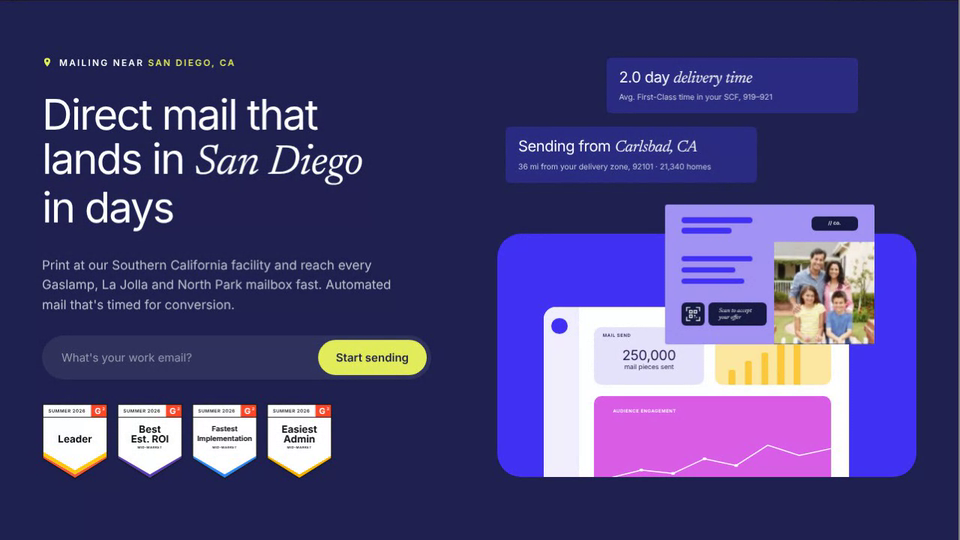
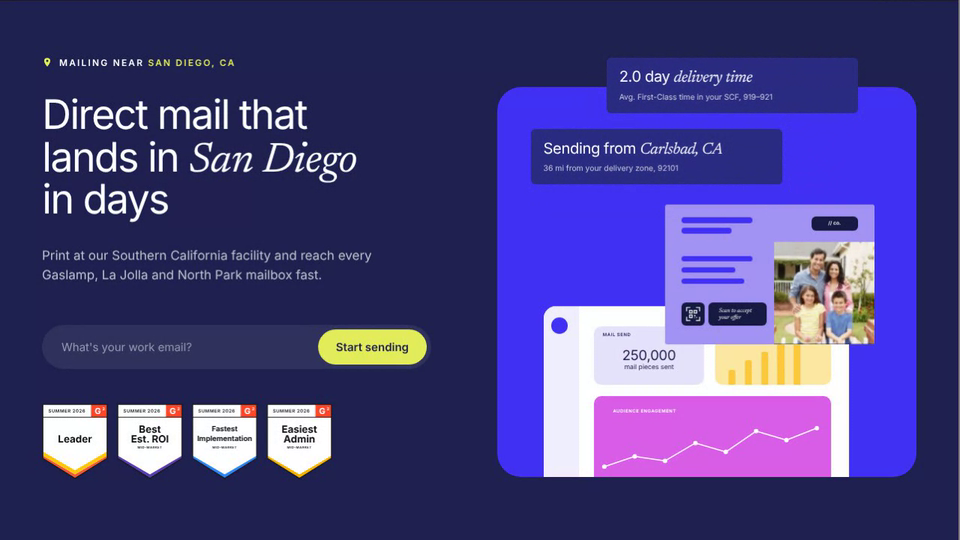
Location Hero: looping blurbs, more cities, layout tweaks (#291)
* Add Location Hero: Lob-style hero that switches San Francisco to Miami

Claude-Session: https://claude.ai/code/session_01AHeBdxeACcd88pkrxSw1Hy

* Location Hero: real mailpiece and photo, switcher in header, no logo or sign in, looser headline

Claude-Session: https://claude.ai/code/session_01AHeBdxeACcd88pkrxSw1Hy

* Location Hero: rounder, offset blurbs, shorter purple box, G2 badges, 3 line title, switcher in nav

Claude-Session: https://claude.ai/code/session_01AHeBdxeACcd88pkrxSw1Hy

* Location Hero: rebuild the mailpiece from the pink template gallery postcard layout in the purple style

Claude-Session: https://claude.ai/code/session_01AHeBdxeACcd88pkrxSw1Hy

* Location Hero: squarer postcard, QR beside scan block, smaller logo, bigger photo, G2 badges redrawn to match

Claude-Session: https://claude.ai/code/session_01AHeBdxeACcd88pkrxSw1Hy

* Location Hero: San Diego, tighter title, no crosshairs, chart up, new QR, postcard right, Start sending CTA

Claude-Session: https://claude.ai/code/session_01AHeBdxeACcd88pkrxSw1Hy

* Location Hero: longer blurbs, tighter title line height

Claude-Session: https://claude.ai/code/session_01AHeBdxeACcd88pkrxSw1Hy

* Location Hero: no drop shadow on the postcard

Claude-Session: https://claude.ai/code/session_01AHeBdxeACcd88pkrxSw1Hy

* Location Hero: blurbs placed in the marked positions

Claude-Session: https://claude.ai/code/session_01AHeBdxeACcd88pkrxSw1Hy

* Location Hero: no eyebrow text on blurbs, squarer blurb corners
[…]

diff --git a/location-hero/index.html b/location-hero/index.html
@@ -23,8 +23,8 @@ nav.back span{color:#6e6e6e}nav.back b{font-weight:500;color:#fff;overflow:hidde
 .chip{display:inline-flex;align-items:center;gap:9px;font-size:12px;font-weight:600;letter-spacing:.18em;text-transform:uppercase}
 .chip svg{width:14px;height:14px;fill:var(--lime)}
 .chip em{font-style:normal;color:var(--lime)}
-h1{font-weight:400;font-size:clamp(34px,4.4vw,58px);line-height:1.04;letter-spacing:-2px;margin:30px 0 34px;white-space:nowrap}
-h1 i{font-family:var(--serif);font-style:italic;letter-spacing:-.01em}
+h1{font-weight:400;font-size:calc(clamp(34px,4.4vw,58px) - 2px);line-height:1.04;letter-spacing:-2px;margin:30px 0 34px;white-space:nowrap}
+h1 i{font-family:var(--serif);font-style:italic;letter-spacing:-.01em;font-size:clamp(34px,4.4vw,58px);line-height:0}
 .sw{display:inline-block;transition:opacity .35s,transform .35s,filter .35s}
 .sw.out{opacity:0;transform:translateY(10px);filter:blur(6px)}
 .sub{font-size:17px;line-height:1.55;color:rgba(255,255,255,.72);max-width:470px;min-height:78px}
@@ -33,19 +33,23 @@ h1 i{font-family:var(--serif);font-style:italic;letter-spacing:-.01em}
 .form input::placeholder{color:rgba(255,255,255,.5)}
 .form button{border:0;background:var(--lime);color:var(--ink);font:600 15px var(--sans);padding:14px 24px;border-radius:99px;cursor:pointer;white-space:nowrap}
 .form button:hover{filter:brightness(1.06)}
-.g2{display:flex;gap:12px;margin-top:32px}
+.g2{display:flex;gap:12px;margin-top:46px}
 .g2 svg{width:88px;height:auto;display:block}
 
 /* illustration */
 .stage{position:relative;aspect-ratio:1/1;width:100%;max-width:600px;justify-self:end;container-type:inline-size}
-.blurbs div.bl{position:absolute;width:60%;background:var(--card);border-radius:6px;padding:2.6cqw 3cqw;color:#fff;transition:opacity .35s,transform .35s,filter .35s}
-#b1{left:26%;top:0}#b2{left:2%;top:16.5%}
-.bl.out{opacity:0;transform:translateY(8px);filter:blur(5px)}
+.blurbs div.bl{position:absolute;width:60%;background:var(--card);border-radius:6px;padding:2.6cqw 3cqw;color:#fff;z-index:3;opacity:0;left:8%;top:26%;transform:scale(.8);transform-origin:50% 100%;transition:left .8s cubic-bezier(.34,1.3,.64,1),top .8s cubic-bezier(.34,1.3,.64,1),transform .6s cubic-bezier(.34,1.56,.64,1),opacity .45s}
+.blurbs .bl[data-s="1"]{left:8%;top:17%;opacity:1;transform:none}
+.blurbs .bl[data-s="0"]{left:26%;top:0;opacity:1;transform:none}
+.blurbs .bl[data-s="x"]{left:26%;top:-9%;opacity:0;transform:scale(.97);transition:left .8s,top .8s ease-in,transform .6s,opacity .45s .15s}
+.blurbs .bl[data-s="r"]{transition:none}
+.bi{transition:opacity .35s,transform .35s,filter .35s}
+.bi.out{opacity:0;transform:translateY(8px);filter:blur(5px)}
 .bl strong{display:block;font:400 3.6cqw/1.1 var(--sans);letter-spacing:-.02em}
 .bl strong i{font:italic 400 3.8cqw var(--serif)}
 .bl p{font:400 1.85cqw/1.4 var(--sans);color:rgba(255,255,255,.75);margin-top:1.2cqw}
-.box{position:absolute;left:0;right:0;top:42%;bottom:0;background:var(--purple);border-radius:32px;overflow:hidden}
-.plat{position:absolute;left:11%;top:30%;width:73%;height:92%;background:#fff;border-radius:16px 16px 0 0}
+.box{z-index:1;position:absolute;left:0;right:0;top:7%;bottom:0;background:var(--purple);border-radius:32px;overflow:hidden}
+.plat{position:absolute;left:11%;top:56.3%;width:73%;height:57.4%;background:#fff;border-radius:16px 16px 0 0}
 .side{position:absolute;left:0;top:0;bottom:0;width:11.5%;background:#f1effd;border-radius:16px 0 0 0}
 .side i{position:absolute;left:23%;top:5%;width:46%;aspect-ratio:1;background:var(--purple);border-radius:50%}
 .t{position:absolute;border-radius:10px}
@@ -56,8 +60,8 @@ h1 i{font-family:var(--serif);font-style:italic;letter-spacing:-.01em}
 .t2{left:56%;top:9%;width:38%;height:26%;background:var(--yel)}
 .t2 i{position:absolute;bottom:0;width:6%;background:var(--yel2);border-radius:3px 3px 0 0}
 .t3{left:16.5%;top:40%;width:77.5%;height:60%;background:var(--pink)}
-.t3 svg{position:absolute;left:0;top:22%;width:100%;height:42%}
-.mail{position:absolute;left:40%;top:35%;width:50%;aspect-ratio:1.5;border-radius:3px;overflow:hidden}
+.t3 svg{position:absolute;left:0;top:16%;width:100%;height:auto;display:block}
+.mail{z-index:2;position:absolute;left:40%;top:35%;width:50%;aspect-ratio:1.5;border-radius:3px;overflow:hidden}
 .pc{position:absolute;inset:0;background:#a393f5}
 .el{position:absolute}
 .bar{background:var(--purple);border-radius:99px}
@@ -67,31 +71,32 @@ h1 i{font-family:var(--serif);font-style:italic;letter-spacing:-.01em}
 .scan{background:var(--deep);color:#fff;border-radius:6px;font:italic 400 1.4cqw/1.15 var(--serif);display:flex;align-items:center;padding:0 5%}
 .ph{object-fit:cover;border-radius:0}
 @media(max-width:900px){.hero{grid-template-columns:1fr;padding:24px 20px 28px}.stage{justify-self:center}.sub{min-height:0}h1{white-space:normal}}
-@media(prefers-reduced-motion:reduce){.sw,.bl{transition:none}}
+@media(prefers-reduced-motion:reduce){.sw,.bl,.bi{transition:none}}
 </style>
 </head>
 <body>
 <nav class="back" aria-label="Sandbox"><a href="../">Sandbox</a><span class="x">/</span><a class="x" href="../">Back to all projects</a><span>/</span><b>Location Hero</b>
-<div class="tog" role="group" aria-label="Preview location"><button class="on" data-i="0">San Diego</button><button data-i="1">Miami</button></div></nav>
+<div class="tog" id="tog" role="group" aria-label="Preview location"></div></nav>
 <main class="hero">
   <section>
     <div class="chip"><svg viewBox="0 0 24 24"><path d="M12 2a7 7 0 0 0-7 7c0 5.2 7 13 7 13s7-7.8 7-13a7 7 0 0 0-7-7zm0 9.5a2.5 2.5 0 1 1 0-5 2.5 2.5 0 0 1 0 5z"/></svg><span>Mailing near <em class="sw" id="city">San Diego, CA</em></span></div>
     <h1><span class="sw" id="h1">Direct mail that<br>lands in <i>San Diego</i><br>in days</span></h1>
-    <p class="sub sw" id="sub">Print at our Southern California facility and reach every Gaslamp, La Jolla and North Park mailbox fast. Automated mail that's timed for conversion.</p>
+    <p class="sub sw" id="sub">Print at our Southern California facility and reach every Gaslamp, La Jolla and North Park mailbox fast.</p>
     <form class="form" onsubmit="return false"><input type="email" placeholder="What's your work email?" aria-label="Work email"><button>Start sending</button></form>
     <div class="g2" id="g2" aria-label="G2 awards"></div>
   </section>
 
   <div class="stage" id="stage">
     <div class="blurbs">
-      <div class="bl" id="b1"><strong id="b1h"></strong><p id="b1p"></p></div>
-      <div class="bl" id="b2"><strong id="b2h"></strong><p id="b2p"></p></div>
+      <div class="bl" id="b1" data-s="h"><div class="bi"><strong id="b1h"></strong><p id="b1p"></p></div></div>
+      <div class="bl" id="b2" data-s="h"><div class="bi"><strong id="b2h"></strong><p id="b2p"></p></div></div>
+      <div class="bl" id="b3" data-s="h"><div class="bi"><strong id="b3h"></strong><p id="b3p"></p></div></div>
     </div>
     <div class="box"><div class="plat">
       <div class="side"><i></i></div>
       <div class="t t1"><small>MAIL SEND</small><b>250,000</b><span>mail pieces sent</span></div>
       <div class="t t2"><i style="left:12%;height:26%"></i><i style="left:26%;height:42%"></i><i style="left:40%;height:56%"></i><i style="left:54%;height:74%"></i><i style="left:68%;height:92%"></i></div>
-      <div class="t t3"><small style="color:#fff">AUDIENCE ENGAGEMENT</small><svg viewBox="0 0 300 100" preserveAspectRatio="none"><polyline fill="none" stroke="#fff" stroke-width="1.5" vector-effect="non-scaling-stroke" points="20,92 60,78 100,84 140,58 180,70 220,34 260,52 300,40"/><g fill="#fff"><circle cx="60" cy="78" r="2.5"/><circle cx="100" cy="84" r="2.5"/><circle cx="140" cy="58" r="2.5"/><circle cx="180" cy="70" r="2.5"/></g></svg></div>
+      <div class="t t3"><small style="color:#fff">AUDIENCE ENGAGEMENT</small><svg viewBox="0 0 320 80"><polyline fill="none" stroke="#fff" stroke-width="1.6" stroke-linejoin="round" points="14,66 55,52 96,58 137,34 178,46 219,18 260,30 301,14"/><g fill="#fff"><circle cx="14" cy="66" r="3"/><circle cx="55" cy="52" r="3"/><circle cx="96" cy="58" r="3"/><circle cx="137" cy="34" r="3"/><circle cx="178" cy="46" r="3"/><circle cx="219" cy="18" r="3"/><circle cx="260" cy="30" r="3"/><circle cx="301" cy="14" r="3"/></g></svg></div>
     </div></div>
     <div class="mail"><div class="pc">
         <div class="el bar" style="left:7.7%;top:9%;width:34%;height:4.2%"></div>
@@ -108,12 +113,26 @@ h1 i{font-family:var(--serif);font-style:italic;letter-spacing:-.01em}
 </main>
 <script>
 const CITIES=[
- {city:'San Diego, CA',h:'Direct mail that<br>lands in <i>San Diego</i><br>in days',sub:"Print at our Southern California facility and reach every Gaslamp, La Jolla and North Park mailbox fast. Automated mail that's timed for conversion.",
-  b1:['USPS mailing data','2.0 day <i>delivery time</i>','Avg. First-Class time in your SCF, 919–921'],
-  b2:['Your print location','Sending from <i>Carlsbad, CA</i>','36 mi from your delivery zone, 92101 · 21,340 homes']},
- {city:'Miami, FL',h:'Direct mail that<br>lands in <i>Miami</i><br>in days',sub:"Print at our Florida facility and reach every Brickell, Wynwood and Coral Gables mailbox fast. Automated mail that's timed for conversion.",
-  b1:['USPS mailing data','2.3 day <i>delivery time</i>','Avg. First-Class time in your SCF, 331–332'],
-  b2:['Your print location','Sending from <i>Orlando, FL</i>','235 mi from your delivery zone, 33131 · 24,760 homes']}];
+ {city:'San Diego, CA',h:'Direct mail that<br>lands in <i>San Diego</i><br>in days',sub:"Print at our Southern California facility and reach every Gaslamp, La Jolla and North Park mailbox fast.",
+  b:[['2.0 day <i>delivery time</i>','Avg. First-Class time in your SCF, 919–921'],
+     ['Sending from <i>Carlsbad, CA</i>','36 mi from your delivery zone, 92101'],
+     ['<i>21,340</i> homes in your zone','Gaslamp, La Jolla and North Park, mapped to carrier routes']]},
+ {city:'Miami, FL',h:'Direct mail that<br>lands in <i>Miami</i><br>in days',sub:"Print at our Florida facility and reach every Brickell, Wynwood and Coral Gables mailbox fast.",
+  b:[['2.3 day <i>delivery time</i>','Avg. First-Class time in your SCF, 331–332'],
+     ['Sending from <i>Orlando, FL</i>','235 mi from your delivery zone, 33131'],
+     ['<i>24,760</i> homes in your zone','Brickell, Wynwood and Coral Gables, mapped to carrier routes']]},
+ {city:'Nashville, TN',h:'Direct mail that<br>lands in <i>Nashville</i><br>in days',sub:"Print at our Tennessee facility and reach every East Nashville, Gulch and Germantown mailbox fast.",
+  b:[['2.1 day <i>delivery time</i>','Avg. First-Class time in your SCF, 370–372'],
+     ['Sending from <i>Memphis, TN</i>','210 mi from your delivery zone, 37203'],
+     ['<i>19,880</i> homes in your zone','East Nashville, Gulch and Germantown, mapped to carrier routes']]},
+ {city:'Columbus, OH',h:'Direct mail that<br>lands in <i>Columbus</i><br>in days',sub:"Print at our Ohio facility and reach every Short North, German Village and Clintonville mailbox fast.",
+  b:[['2.0 day <i>delivery time</i>','Avg. First-Class time in your SCF, 430–432'],
+     ['Sending from <i>Dayton, OH</i>','72 mi from your delivery zone, 43215'],
+     ['<i>22,410</i> homes in your zone','Short North, German Village and Clintonville, mapped to carrier routes']]},
+ {city:'Kansas City, MO',h:'Direct mail that<br>lands in <i>Kansas City</i><br>in days',sub:"Print at our Midwest facility and reach every Westport, Crossroads and Brookside mailbox fast.",
+  b:[['2.4 day <i>delivery time</i>','Avg. First-Class time in your SCF, 640–641'],
+     ['Sending from <i>Wichita, KS</i>','200 mi from your delivery zone, 64105'],
+     ['<i>17,950</i> homes in your zone','Westport, Crossroads and Brookside, mapped to carrier routes']]}];
 const $=id=>document.getElementById(id);
 // G2 style badges
 const BADGES=[
@@ -127,18 +146,29 @@ $('g2').innerHTML=BADGES.map((b,n)=>{
  const txt=b.l.map((t,i)=>`<text x="41" y="${y0+i*(b.l.length>1?12:0)+fs[i]*.36}" text-anchor="middle" font-size="${fs[i]}" font-weight="700" fill="#111">${t}</text>`).join('');
  const bands=b.bands.map((c,i)=>{const t=5*(i+1),t0=5*i;return `<path d="M-2 ${68-t0}L41 ${93-t0}L84 ${68-t0}V${68-t}L41 ${93-t}-2 ${68-t}Z" fill="${c}"/>`}).join('');
  return `<svg viewBox="0 0 82 94" role="img" aria-label="G2 ${b.l.join(' ')}"><defs><clipPath id="sh${n}"><path d="${SH}"/></clipPath></defs><path d="${SH}" fill="#fff"/><g clip-path="url(#sh${n})">${bands}<rect x="61" y="1" width="20" height="16" fill="#ff492c"/><path d="M0 17H82" stroke="#1a1a1a" stroke-width="1"/></g><g font-family="Inter,Arial,sans-serif"><text x="31" y="11.2" text-anchor="middle" font-size="5.6" font-weight="600" letter-spacing=".5" fill="#1a1a1a">SUMMER 2026</text>${txt}${b.mm?`<text x="41" y="56" text-anchor="middle" font-size="4" font-weight="600" letter-spacing=".4" fill="#1a1a1a">MID-MARKET</text>`:''}<text x="69.5" y="13" text-anchor="middle" font-size="10.5" font-weight="700" fill="#fff">G</text><text x="76.5" y="8" text-anchor="middle" font-size="5" font-weight="700" fill="#fff">2</text></g><path d="${SH}" fill="none" stroke="#1a1a1a" stroke-width="1.3" stroke-linejoin="round"/></svg>`}).join('');
-const sw=['city','h1','sub','b1','b2'];
+const sw=['city','h1','sub'];
+const BL=[1,2,3].map(n=>$('b'+n));
+const bl={timer:null,st:null,
+ setSlots(a,b,c){[a,b,c].forEach((v,i)=>{const e=BL[i];e.dataset.s=v})},
+ reset(e){e.dataset.s='r';void e.offsetWidth;e.dataset.s='h';void e.offsetWidth},
+ instant(){BL.forEach(e=>{e.dataset.s='r'});void BL[0].offsetWidth;this.order=[0,1,2];BL[0].dataset.s='0';BL[1].dataset.s='1';BL[2].dataset.s='h'},
+ step(){const [top,low,nxt]=this.order;BL[top].dataset.s='x';BL[low].dataset.s='0';this.reset(BL[nxt]);BL[nxt].dataset.s='1';
+  const gone=top;this.order=[low,nxt,gone];setTimeout(()=>{if(this.order[2]===gone)this.reset(BL[gone])},1000)},
+ intro(){this.order=[0,1,2];BL.forEach(e=>{e.dataset.s='h'});setTimeout(()=>{BL[0].dataset.s='0'},150);setTimeout(()=>{BL[1].dataset.s='1'},650)},
+ start(first){this.stop();this.st=setTimeout(()=>{this.step();this.timer=setInterval(()=>this.step(),2100)},first)},
+ stop(){clearTimeout(this.st);clearInterval(this.timer)}};
 const lp={i:0,timer:null,
  apply(i){const c=CITIES[i];$('city').textContent=c.city;$('h1').innerHTML=c.h;$('sub').textContent=c.sub;
-  [['b1',c.b1],['b2',c.b2]].forEach(([k,v])=>{$(k+'h').innerHTML=v[1];$(k+'p').textContent=v[2]});
+  c.b.forEach((v,k)=>{$('b'+(k+1)+'h').innerHTML=v[0];$('b'+(k+1)+'p').textContent=v[1]});
   document.querySelectorAll('.tog button').forEach((b,j)=>b.classList.toggle('on',j===i));},
- set(i){if(i===this.i)return;this.i=i;sw.forEach(k=>$(k).classList.add('out'));
-  setTimeout(()=>{this.apply(i);sw.forEach(k=>$(k).classList.remove('out'))},350);},
+ set(i){if(i===this.i)return;this.i=i;const els=[...sw.map($),...document.querySelectorAll('.bi')];els.forEach(e=>e.classList.add('out'));
+  setTimeout(()=>{this.apply(i);els.forEach(e=>e.classList.remove('out'))},350);},
  stop(){clearInterval(this.timer);this.timer=null},
- auto(){this.stop();this.timer=setInterval(()=>this.set(1-this.i),3400)}};
+ auto(){this.stop();this.timer=setInterval(()=>this.set((this.i+1)%CITIES.length),6300)}};
+$('tog').innerHTML=CITIES.map((c,i)=>`<button data-i="${i}">${c.city.split(',')[0]}</button>`).join('');
 document.querySelectorAll('.tog button').forEach(b=>b.onclick=()=>{lp.stop();lp.set(+b.dataset.i)});
 lp.apply(0);
-if(!new URLSearchParams(location.search).has('hold'))lp.auto();
+if(new URLSearchParams(location.search).has('hold')){bl.instant()}else{bl.intro();bl.start(2400);lp.auto()}
 </script>
 </body>
 </html>

diff --git a/tools/record-clips.js b/tools/record-clips.js
@@ -122,11 +122,12 @@ const APPS = {
       await sleep(5600);
     } },
   'location-hero': { vp: [1280, 769], crop: [0, 49, 1280, 720],
-    // hold on San Francisco, then switch the hero copy, blurbs and mailpiece to Miami
-    ready: 600,
+    // park on the first two blurbs, let them drift up and a third pop in, and switch the copy to Miami halfway
+    setup: async (p) => { await p.evaluate(() => { lp.stop(); lp.set(0); bl.stop(); bl.instant(); }); },
+    ready: 1200,
     run: async (p) => {
       const t0 = Date.now();
-      await p.evaluate(() => { lp.stop(); lp.set(0); });
+      await p.evaluate(() => { bl.instant(); bl.start(1500); });
       await at(t0, 3200, () => p.evaluate(() => lp.set(1)));
       await sleep(5600);
     } },
